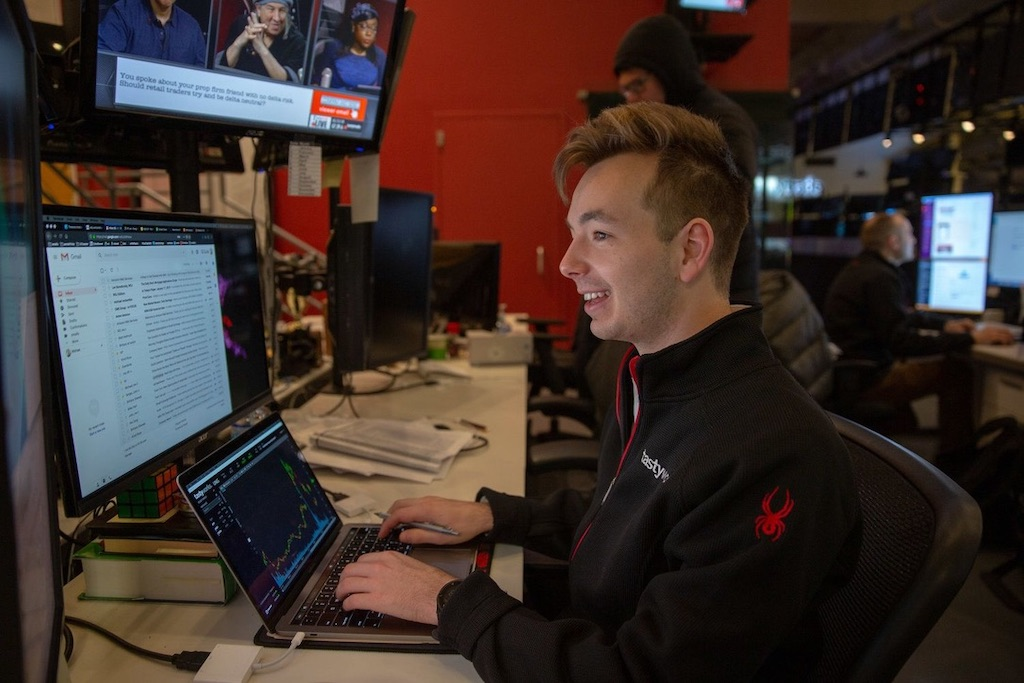
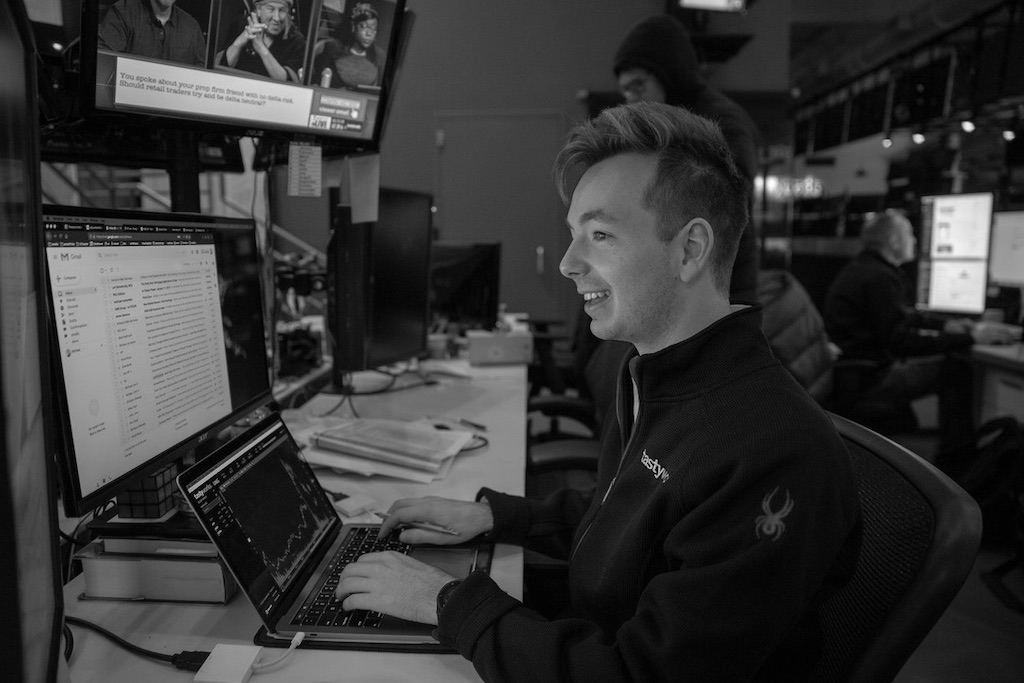
change images to bw

diff --git a/index.html b/index.html
@@ -35,16 +35,16 @@
 
     <div class="flex justify-center">
       <div class="flex-shrink-0 w-1/3 p-6 bg-white shadow-md rounded-lg">
-        <h2 class="text-2xl font-bold mb-4">on running</h2>
-        <img src="static/On-Running.jpeg" alt="On Running" class="object-contain h-40 w-full rounded-lg">
+        <h2 class="text-xl mb-4">on running</h2>
+        <img src="static/On-Running.jpeg" alt="On Running" class="object-contain h-3/5 rounded-lg">
       </div>
       <div class="flex-shrink-0 w-1/3 p-6 bg-white shadow-md rounded-lg mx-4">
-        <h2 class="text-2xl font-bold mb-4">on japanese</h2>
-        <img src="static/On-Japanese.jpeg" alt="On Japanese" class="object-contain h-40 w-full rounded-lg">
+        <h2 class="text-xl mb-4">on japanese</h2>
+        <img src="static/On-Japanese.jpeg" alt="On Japanese" class="object-contain h-3/5 rounded-lg">
       </div>
       <div class="flex-shrink-0 w-1/3 p-6 bg-white shadow-md rounded-lg">
-        <h2 class="text-2xl font-bold mb-4">on labor</h2>
-        <img src="static/On-Labor.jpeg" alt="On Labor" class="object-contain h-40 w-full rounded-lg">
+        <h2 class="text-xl mb-4">on labor</h2>
+        <img src="static/On-Labor.jpeg" alt="On Labor" class="object-contain h-3/5 rounded-lg">
       </div>
     </div>
 
